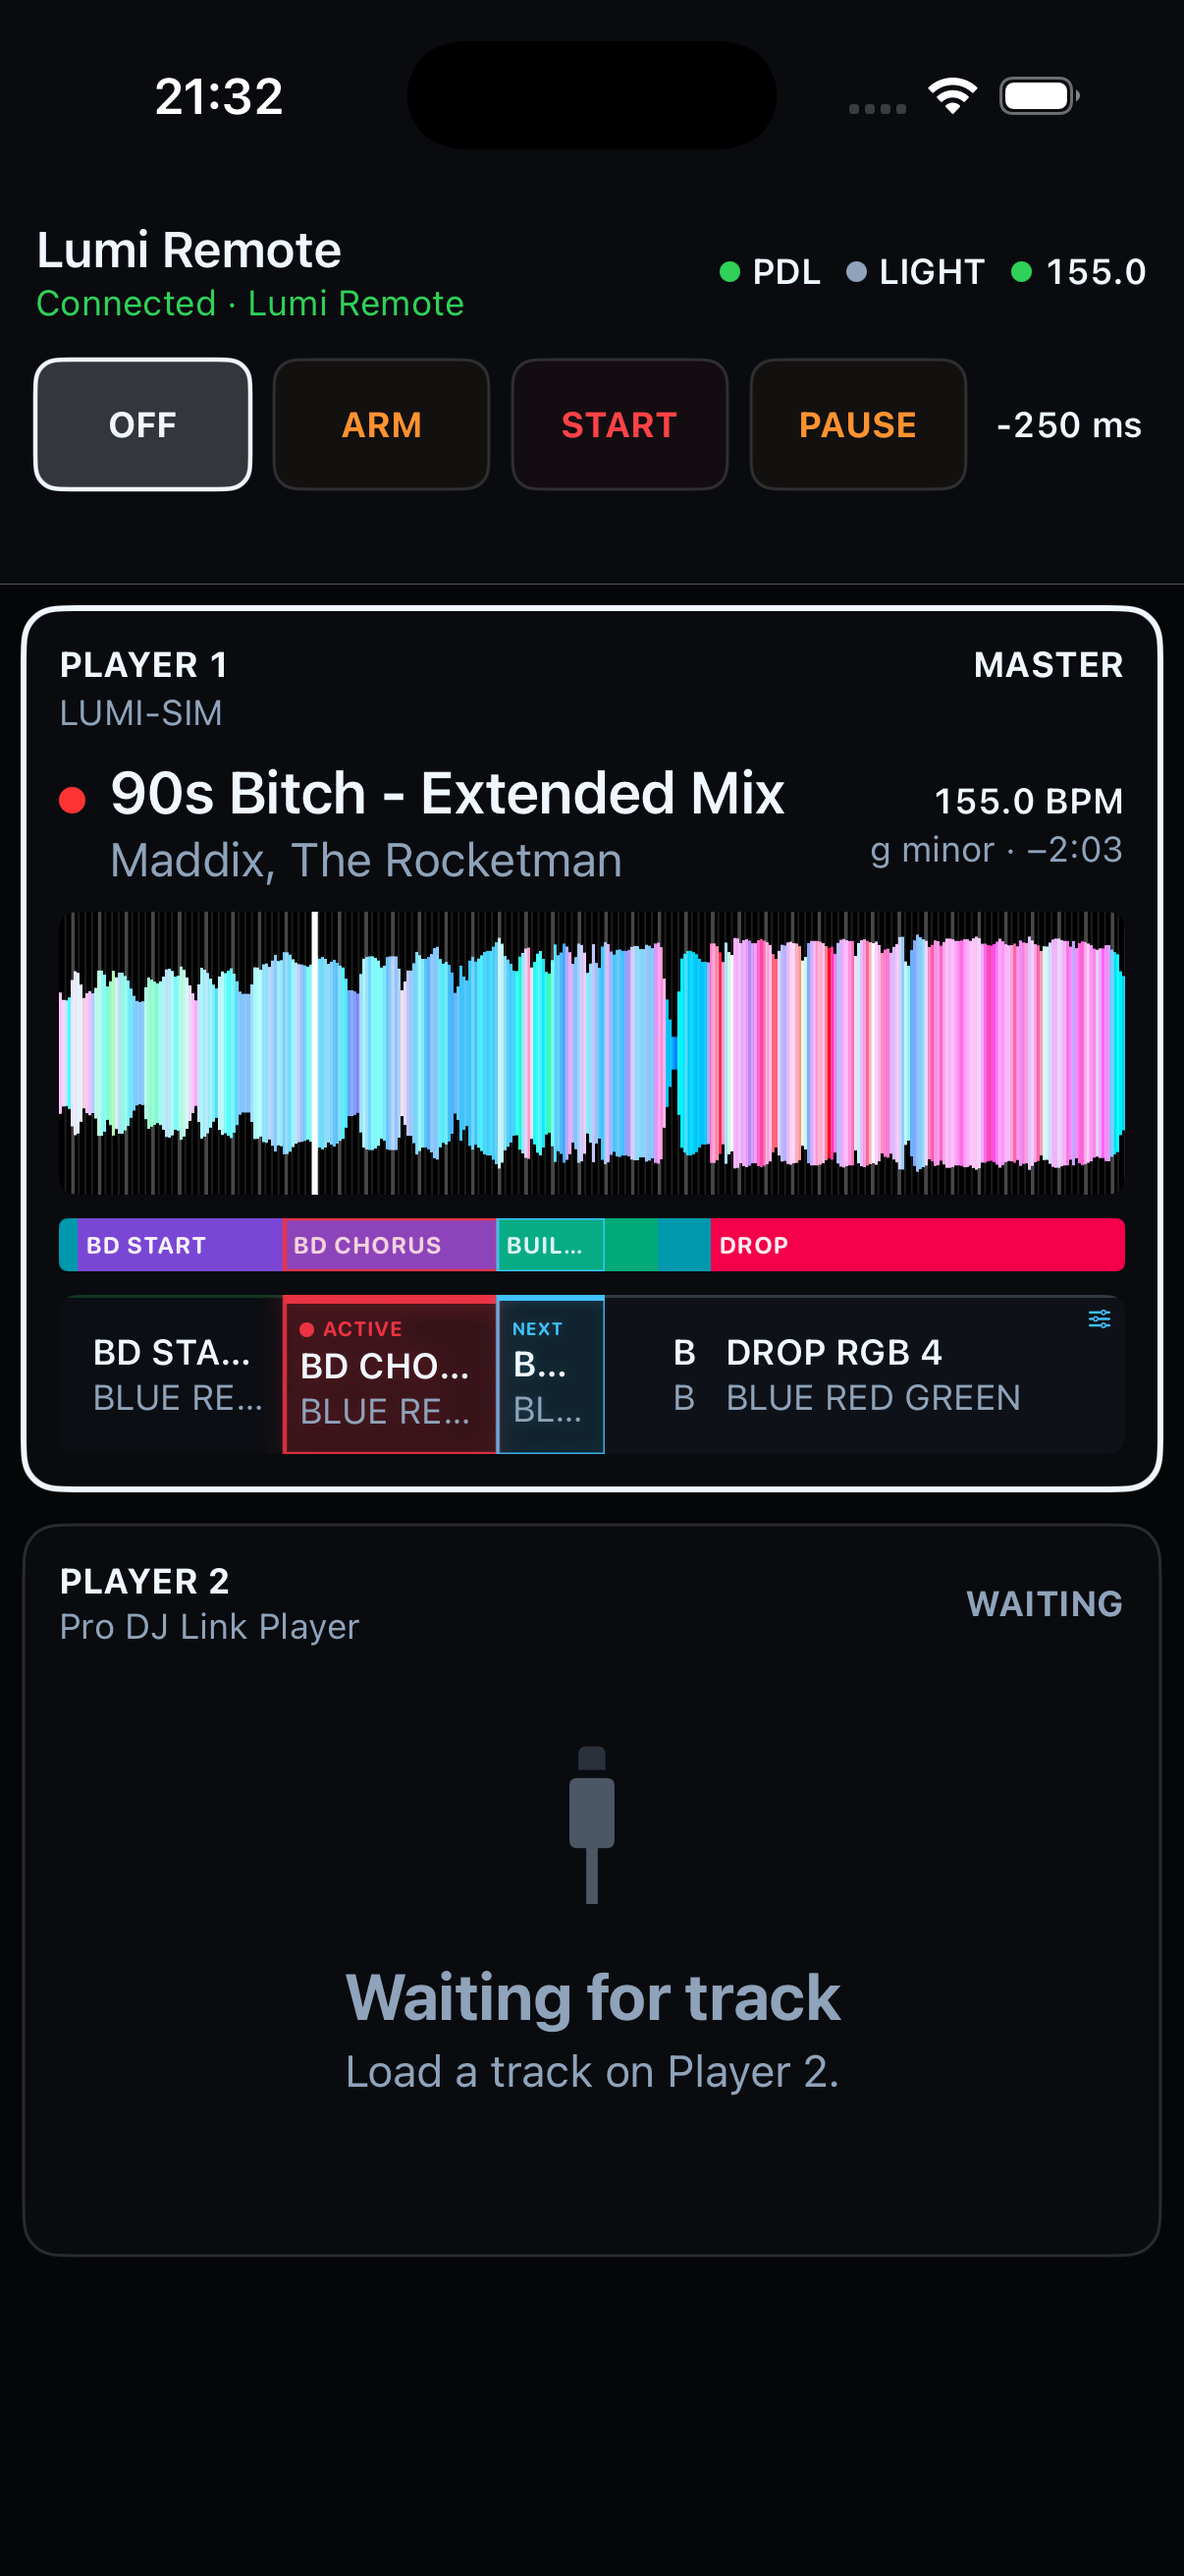
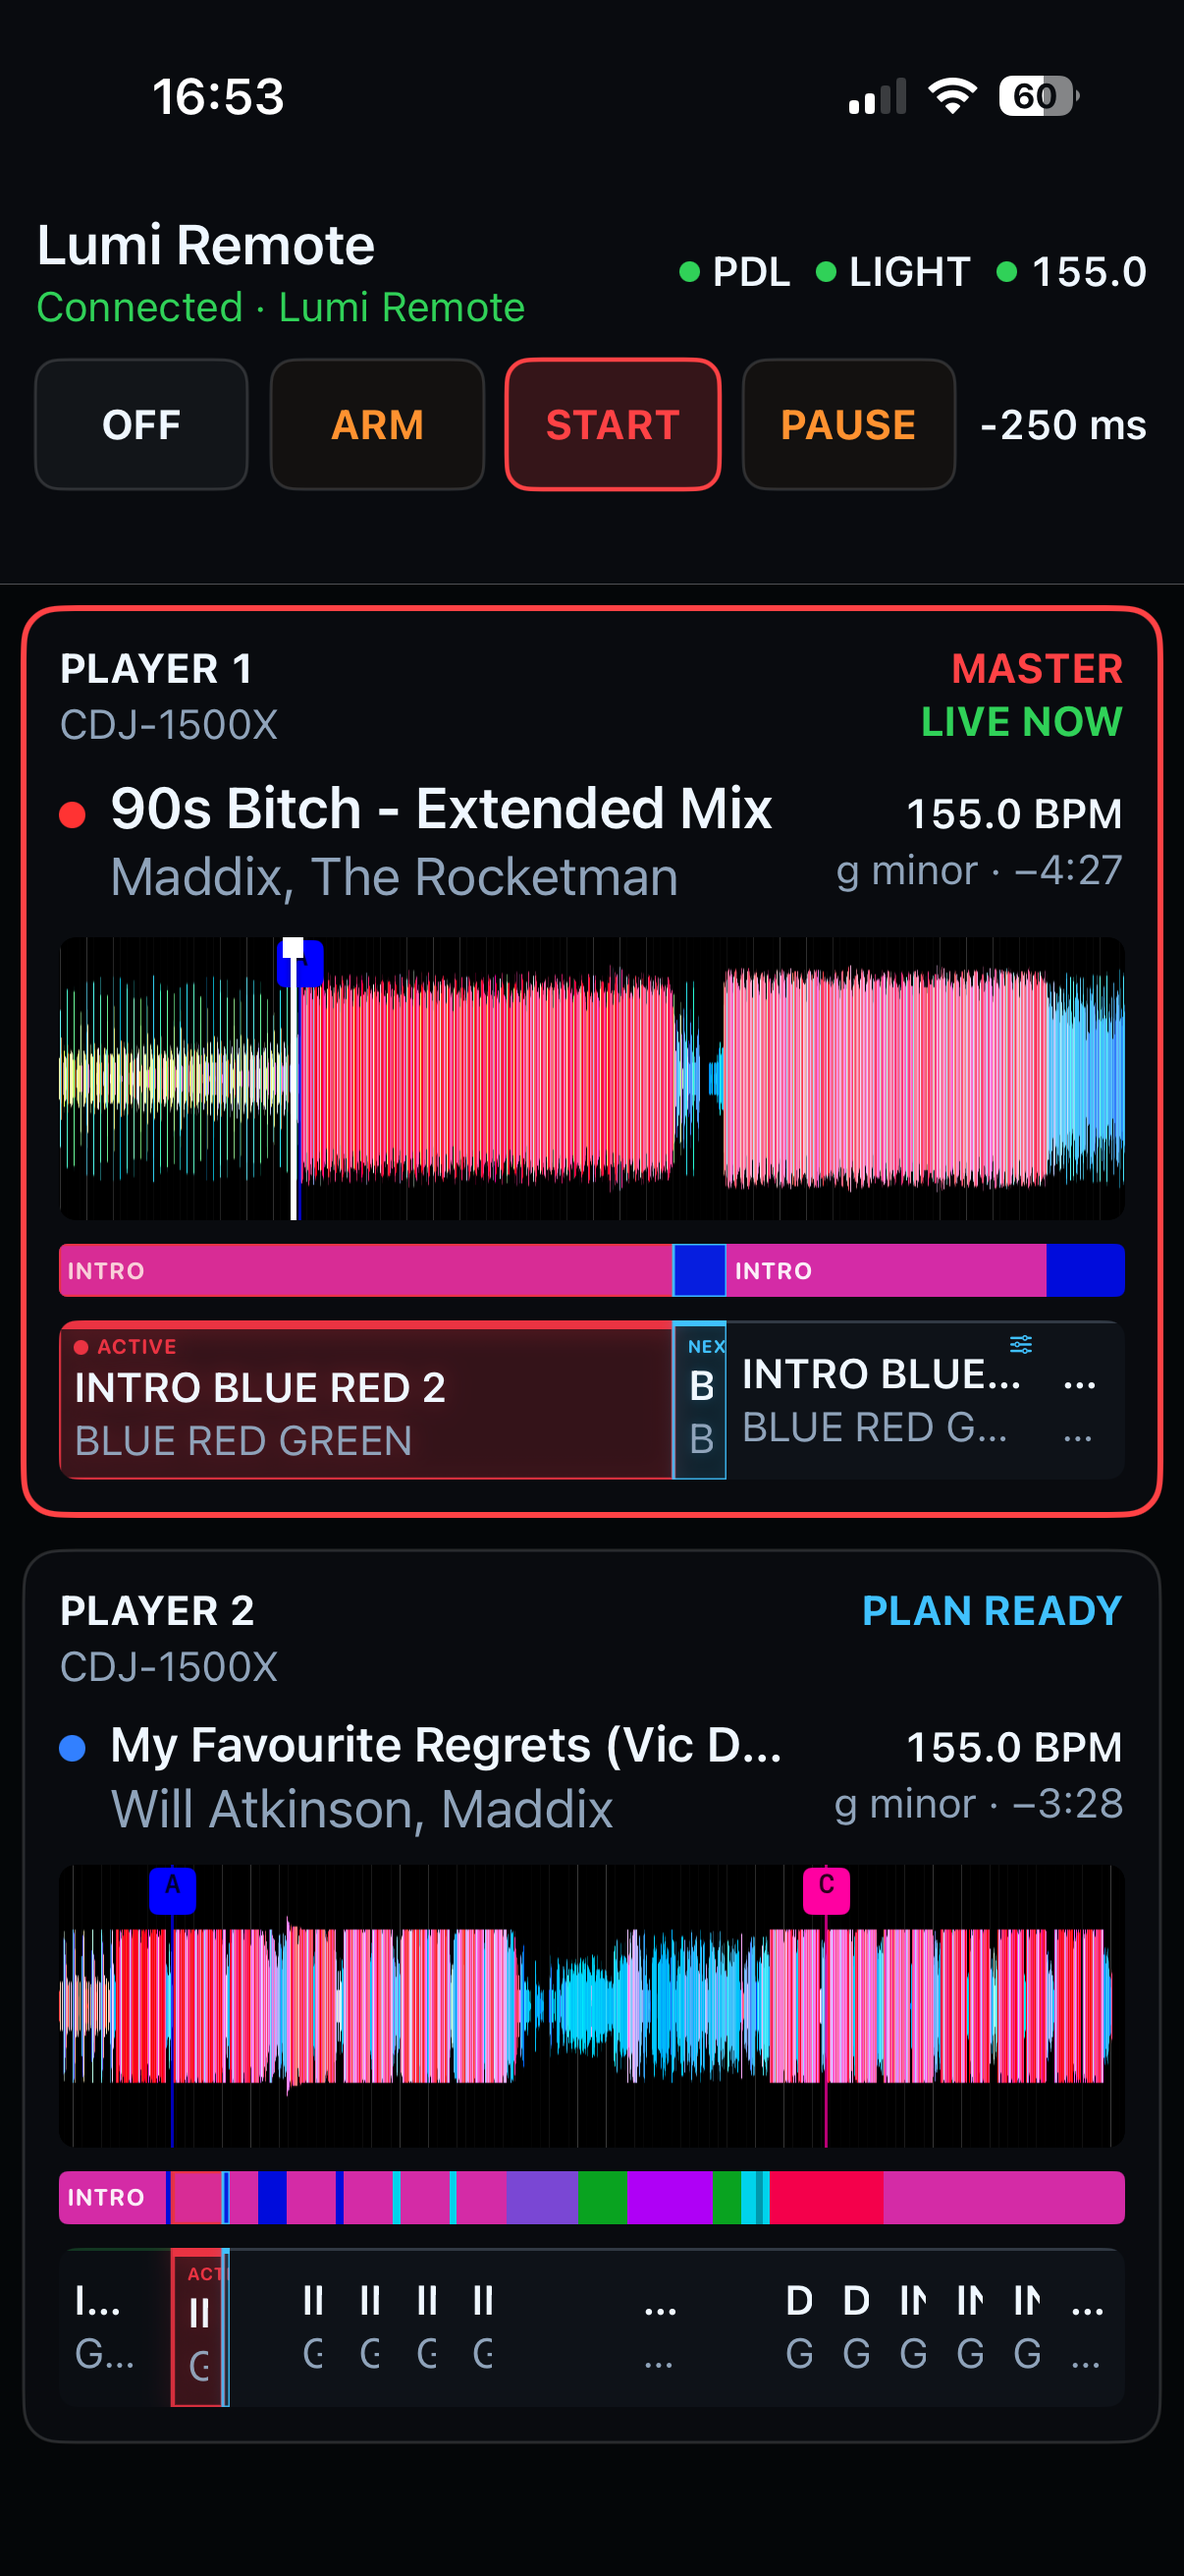
docs(remote): replace and resize live iPhone screenshot

diff --git a/README.md b/README.md
@@ -43,7 +43,9 @@ Light Plans from the authoritative Mac engine. From the phone you can change
 `Off`, `Arm`, `Start` and `Pause`, control Ableton Link and timing offset, and
 adjust a future Theme or AutoLoop without leaving the mixer.
 
-![Lumi Remote showing the live Master and its next phrase](docs/assets/screenshots/lumi-remote-live.png)
+<p align="center">
+  <img src="docs/assets/screenshots/lumi-remote-live.png" alt="Lumi Remote showing two live Players, RGB waveforms and their Light Plans" width="390">
+</p>
 
 The Remote connects directly to the paired Lumi Mac over the local network
 using pinned TLS. It does not stream audio, use a cloud relay or sit in the Pro

diff --git a/docs/index.md b/docs/index.md
@@ -36,7 +36,9 @@ reach. It mirrors the authoritative RGB waveform, phrases and Light Plan, keeps
 the three integration states visible, and allows only the same revision-safe
 booth controls already owned by the Mac engine.
 
-![Lumi Remote showing the live Master and its next phrase](assets/screenshots/lumi-remote-live.png)
+<p align="center">
+  <img src="assets/screenshots/lumi-remote-live.png" alt="Lumi Remote showing two live Players, RGB waveforms and their Light Plans" width="390">
+</p>
 
 The connection stays local and encrypted. Losing the phone never stops the Mac
 engine or changes the lighting output. Continue with the

diff --git a/docs/user-guide/iphone-remote.md b/docs/user-guide/iphone-remote.md
@@ -4,7 +4,9 @@ Lumi Remote is the focused Live Decks companion for the booth. The Mac remains
 the show authority; the iPhone displays its current state and sends a small,
 revision-safe set of user commands.
 
-![Lumi Remote showing the live Master and its next phrase](../assets/screenshots/lumi-remote-live.png)
+<p align="center">
+  <img src="../assets/screenshots/lumi-remote-live.png" alt="Lumi Remote showing two live Players, RGB waveforms and their Light Plans" width="390">
+</p>
 
 ## Requirements
 
